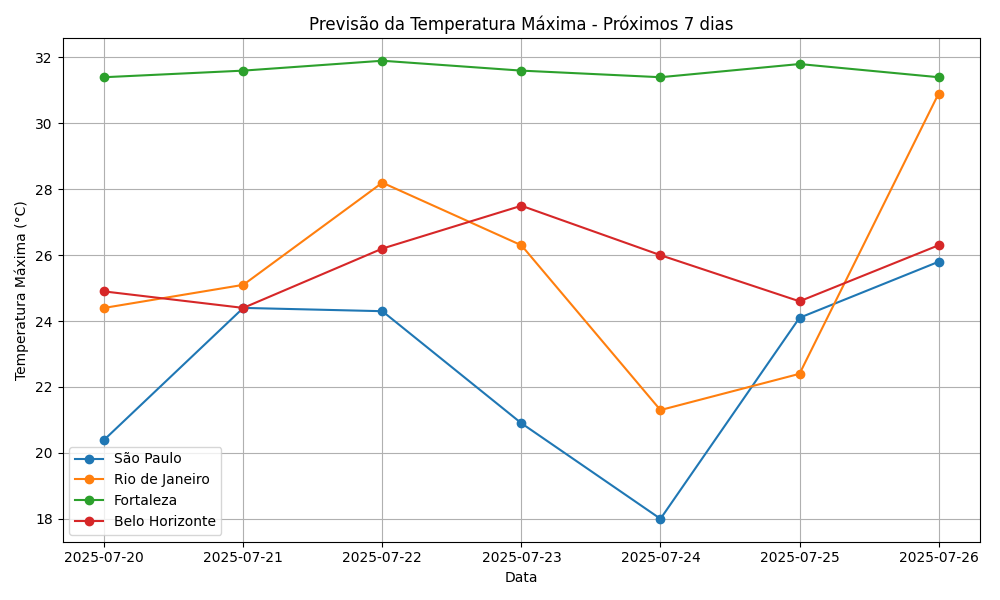
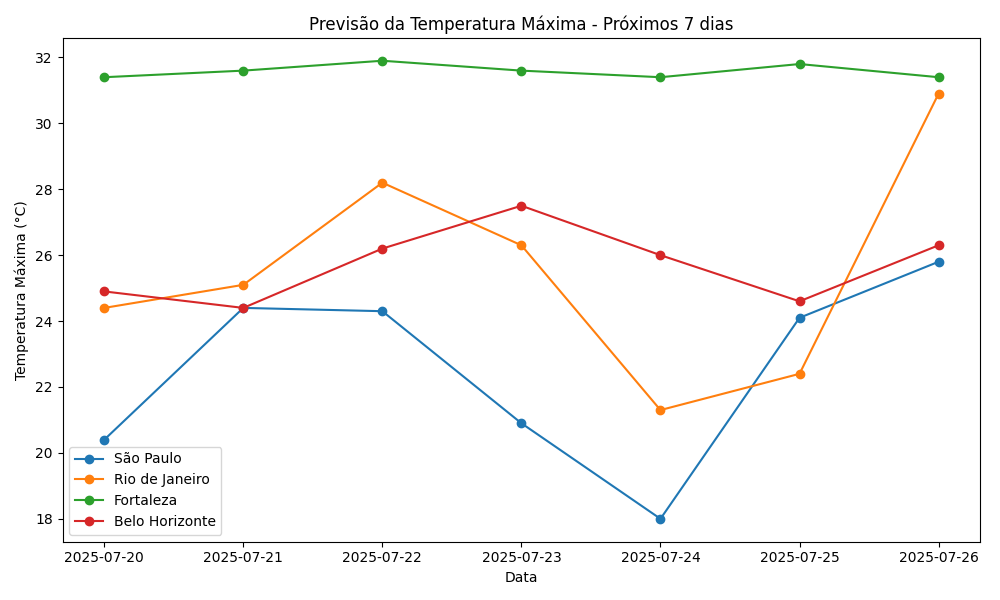
Projeto tempo

diff --git a/Previsão do Tempo/meteo.py b/Previsão do Tempo/meteo.py
@@ -68,7 +68,7 @@ for cidade in cidades.keys():
 plt.title("Previsão da Temperatura Máxima - Próximos 7 dias")
 plt.xlabel("Data")
 plt.ylabel("Temperatura Máxima (°C)")
-plt.grid(True)
+plt.grid(False)
 plt.legend()
 plt.tight_layout()
 plt.savefig("previsao_temperatura.png")
